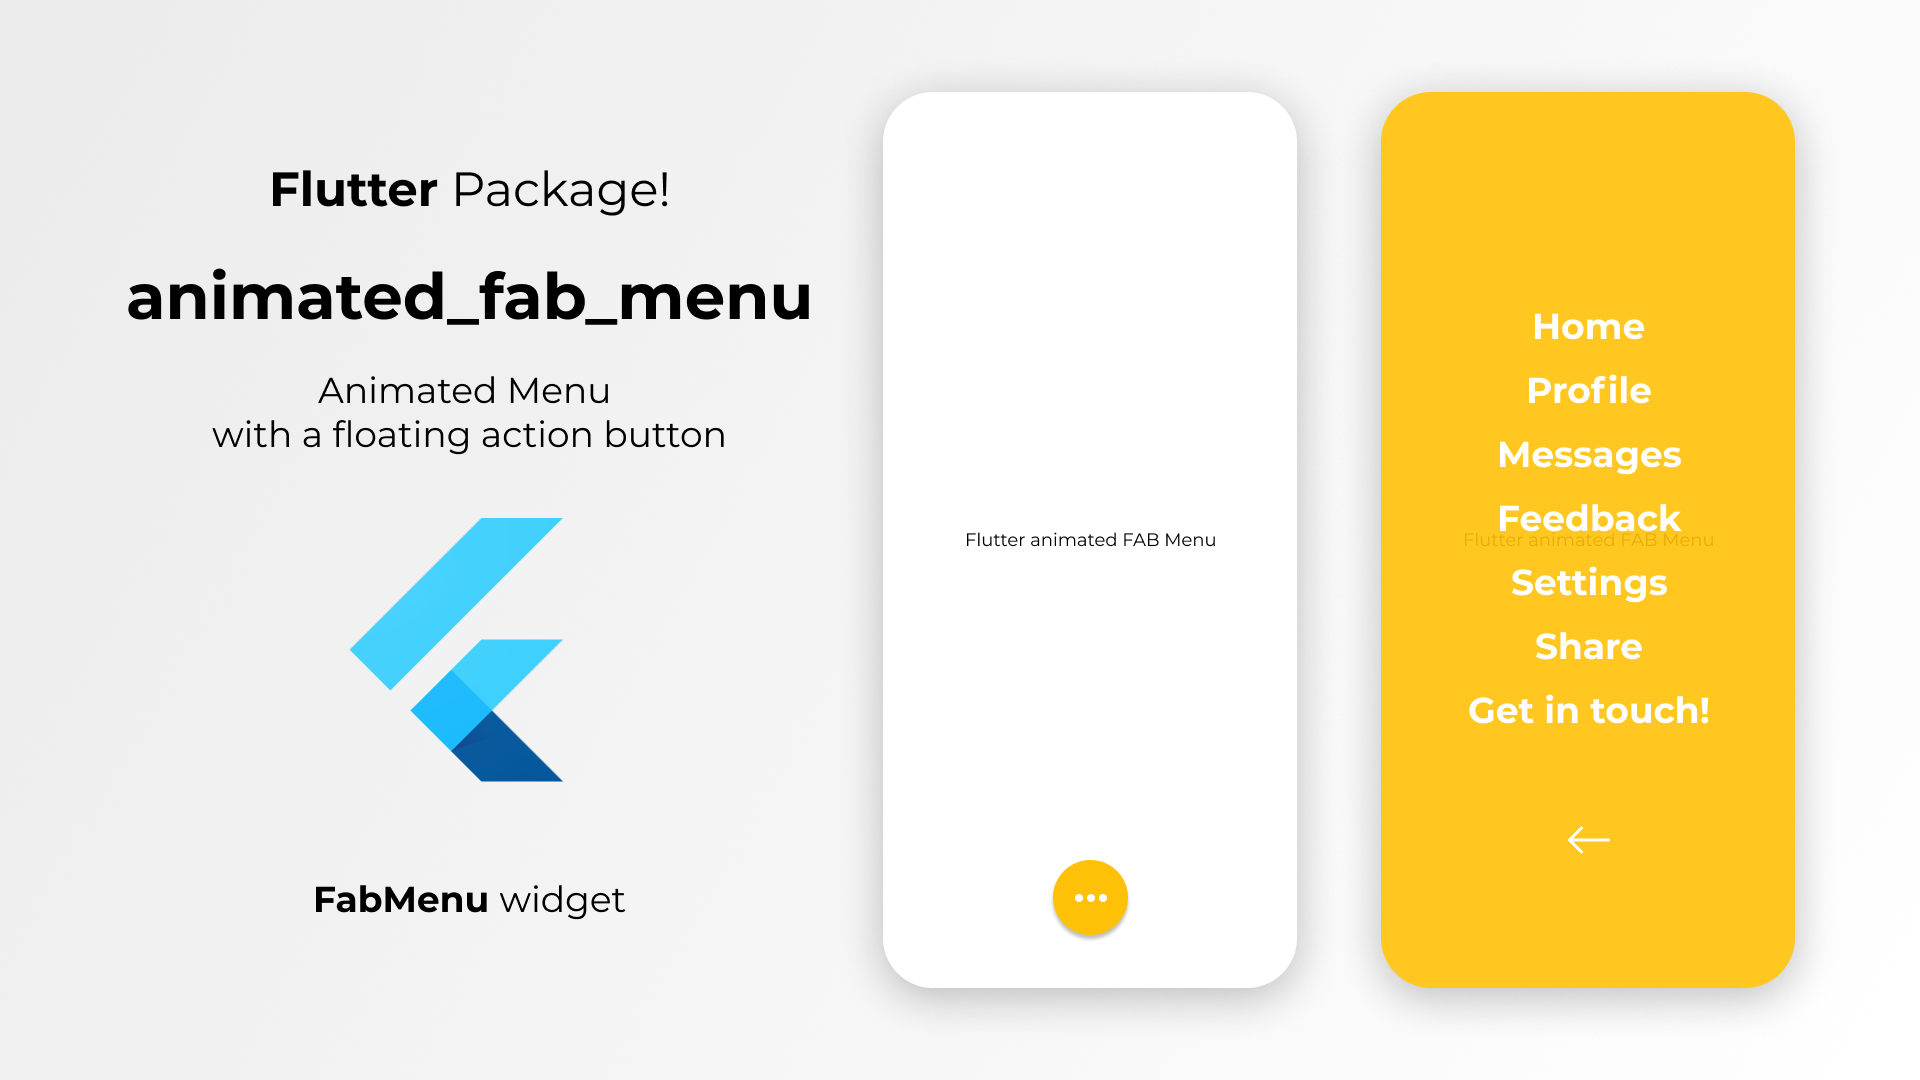
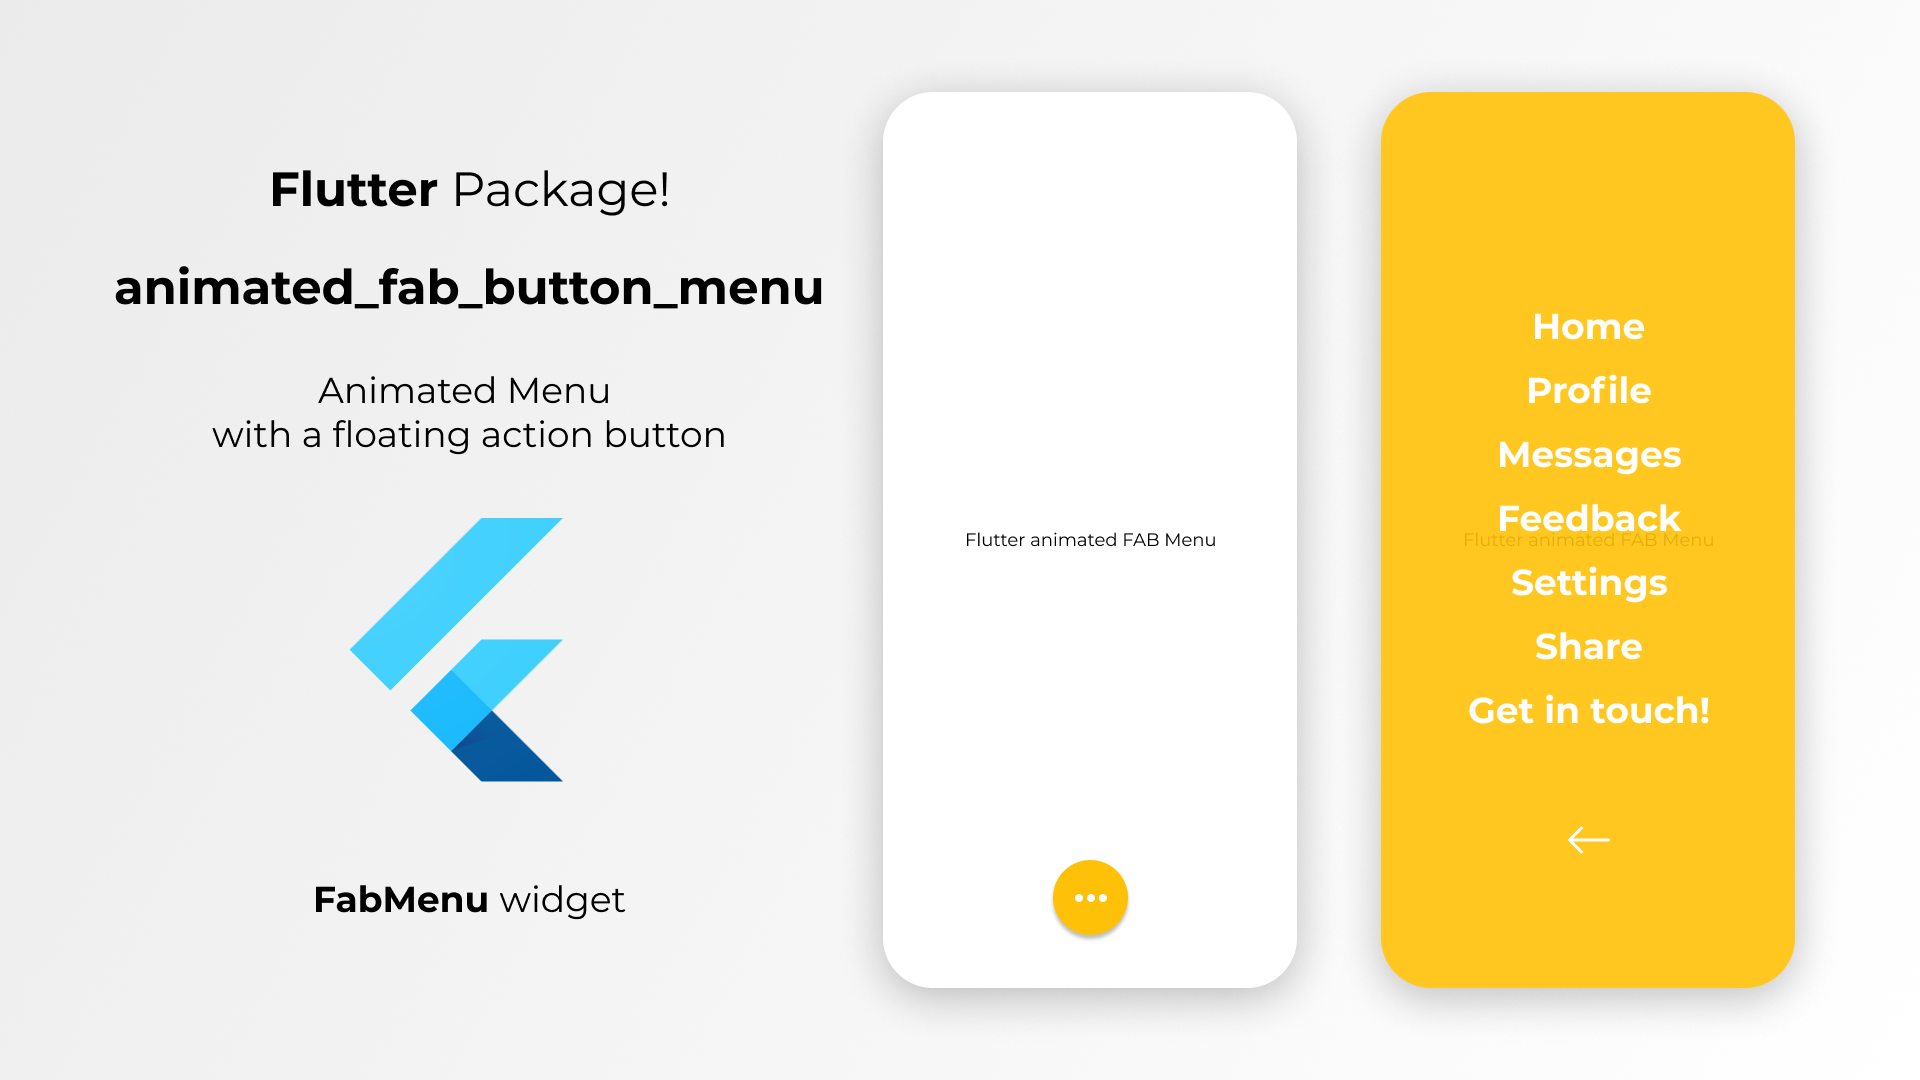
change package name

Changed region(s): [[0.0625, 0.2444, 0.4375, 0.3056]]

diff --git a/lib/src/fab_menu.dart b/lib/src/fab_menu.dart
@@ -1,6 +1,6 @@
-import 'package:animated_fab_menu/src/item_child.dart';
-import 'package:animated_fab_menu/src/fab_menu_item.dart';
-import 'package:animated_fab_menu/src/hero_dialog_route.dart';
+import 'package:animated_fab_button_menu/src/item_child.dart';
+import 'package:animated_fab_button_menu/src/fab_menu_item.dart';
+import 'package:animated_fab_button_menu/src/hero_dialog_route.dart';
 import 'package:flutter/material.dart';
 
 class FabMenu extends StatefulWidget {

diff --git a/README.md b/README.md
@@ -24,7 +24,7 @@ By pressing the floating action button, a page containing a **menu** list will b
 
 *The package will handle the animation by itself.*
 
-![animated_fab_menu](https://user-images.githubusercontent.com/68671238/134635378-5b0a3744-f6b2-4943-87ae-3f43a4d16d1f.png)
+![animated_fab_menu](https://user-images.githubusercontent.com/68671238/134653636-1e0f070c-588a-4189-aa7f-45e9957ccae9.png)
   
 <hr>
 
